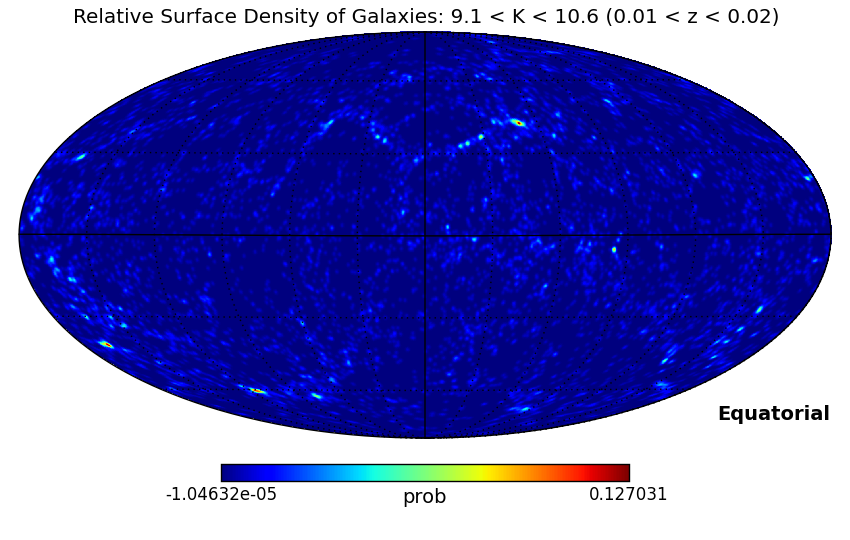
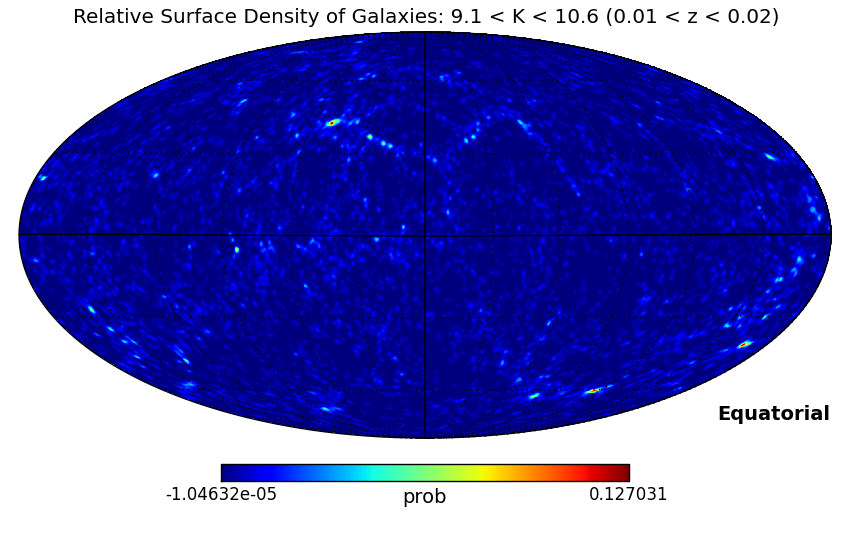
correction of healpix conversion

Changed region(s): [[0.0, 0.0593, 0.9788, 0.8]]

diff --git a/GalMap.py b/GalMap.py
@@ -42,10 +42,10 @@ import pyfits
 def IndexToDeclRa(NSIDE,index):
     
     theta,phi=hp.pixelfunc.pix2ang(NSIDE,index)
-    return -np.degrees(theta-mt.pi/2.),np.degrees(mt.pi*2.-phi)
+    return np.degrees(mt.pi/2.0-theta),np.degrees(phi)
 
 def DeclRaToIndex(decl,RA,NSIDE):
-    return hp.pixelfunc.ang2pix(NSIDE,np.radians(-decl+90.),np.radians(360.-RA))
+    return hp.pixelfunc.ang2pix(NSIDE,np.radians(90.-decl),np.radians(RA))
 
 def isPower(num, base):
     if base == 1 and num != 1: return False
@@ -54,7 +54,7 @@ def isPower(num, base):
     power = int (mt.log (num, base) + 0.5)
     return base ** power == num
 
-def MakeGalMap(FitsGalCat_name,nvalues,z_min,z_max,showMap,zcolumn=None):
+def MakeGalMap(FitsGalCat_name,nvalues,z_min,z_max,showMap,zcolumn=None,sigma=0.01):
     #Check if the nside is a power of two
     val = isPower(nvalues,2)
     
@@ -106,7 +106,7 @@ def MakeGalMap(FitsGalCat_name,nvalues,z_min,z_max,showMap,zcolumn=None):
     
     galpixels_GalMap[pixels[(z>z_min) & (z<z_max)]] += 1
     
-    GalMap_smoothed = hp.sphtfunc.smoothing(galpixels_GalMap,sigma = 0.01)
+    GalMap_smoothed = hp.sphtfunc.smoothing(galpixels_GalMap,sigma = sigma)
     
     if showMap:
         hp.mollview(galpixels_GalMap,coord='C',rot = [0,0.3],
@@ -169,11 +169,18 @@ def _parse_command_line_arguments():
         type=str,
         help='A name of the column in FITS file that contains the redshift (default ZPHOTO)'
     )
+    parser.add_argument('--smooth',
+                        type=float,
+                        help='smoothing scale in radians (default 0.01)',
+                        required=False)
+    parser.set_defaults(smooth=0.01)
+
     parser.add_argument('--savefigures',dest='savefigures',action='store_true',
                         help='output the healpix data in a png file')
     parser.add_argument('--no-savefigures',dest='savefigures',action='store_false',
                             help='do not output the healpix data in a png file (default)')
     parser.set_defaults(savefigures=False)
+
 
     arguments = vars(parser.parse_args())
     return arguments
@@ -201,7 +208,7 @@ def _main():
 
     args=_parse_command_line_arguments()
     MakeGalMap(args['galaxy-catalogue'],args['nside'],args['zmin'],args['zmax'],
-                    args['savefigures'],zcolumn=args['zcolumn'])
+                    args['savefigures'],zcolumn=args['zcolumn'],sigma=args['smooth'])
     
 #------------------------------------------------------------------------------
 # Start program execution.

diff --git a/Make2MASSMaps.py b/Make2MASSMaps.py
@@ -47,17 +47,17 @@ import matplotlib.pyplot as plt
 
 def IndexToDeclRa(NSIDE,index):
     theta,phi=hp.pixelfunc.pix2ang(NSIDE,index)
-    return -np.degrees(theta-mt.pi/2.),np.degrees(mt.pi*2.-phi)
+    return np.degrees(mt.pi/2.0-theta),np.degrees(phi)
 
 def DeclRaToIndex(decl,RA,NSIDE):
-    return hp.pixelfunc.ang2pix(NSIDE,np.radians(-decl+90.),np.radians(360.-RA))
+    return hp.pixelfunc.ang2pix(NSIDE,np.radians(90.-decl),np.radians(RA))
 
 
 #------------------------------------------------------------------------------
 # main
 #
 
-def main():
+def _main():
 
     """
     This is the main routine.

diff --git a/ObsPlan.py b/ObsPlan.py
@@ -62,10 +62,10 @@ import sys
 def IndexToDeclRa(NSIDE,index):
     
     theta,phi=hp.pixelfunc.pix2ang(NSIDE,index)
-    return -np.degrees(theta-mt.pi/2.),np.degrees(mt.pi*2.-phi)
+    return np.degrees(mt.pi/2.-theta),np.degrees(phi)
 
 def DeclRaToIndex(decl,RA,NSIDE):
-    return hp.pixelfunc.ang2pix(NSIDE,np.radians(-decl+90.),np.radians(360.-RA))
+    return hp.pixelfunc.ang2pix(NSIDE,np.radians(90.-decl),np.radians(RA))
 
 
 def PlotMap(Map,NsideMap,MapName):
